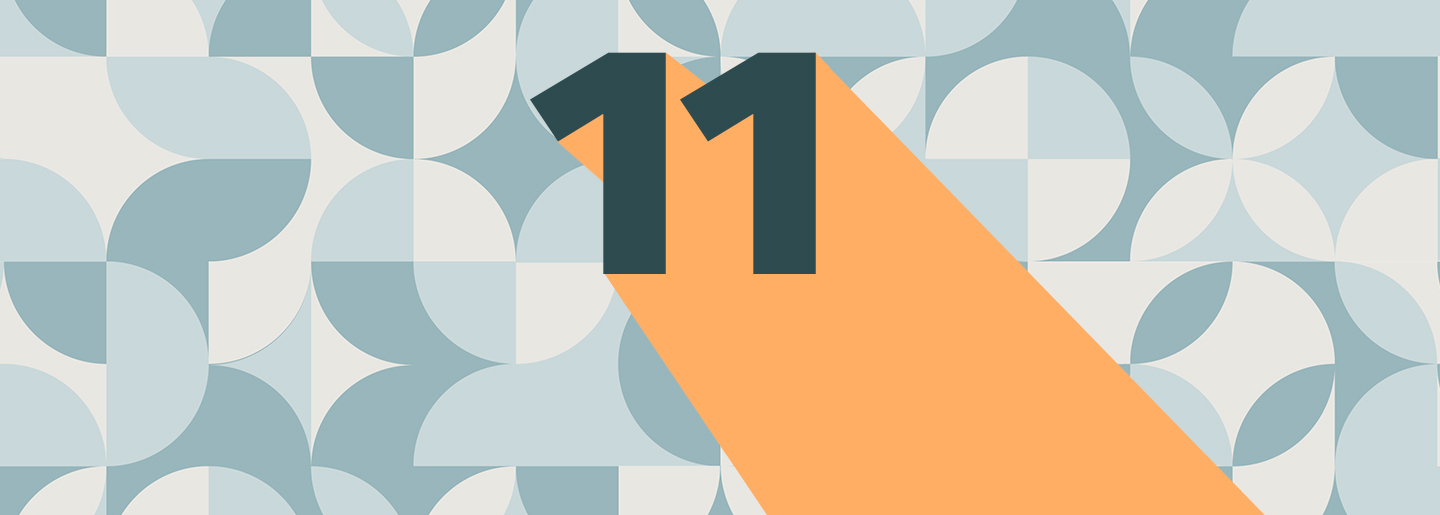
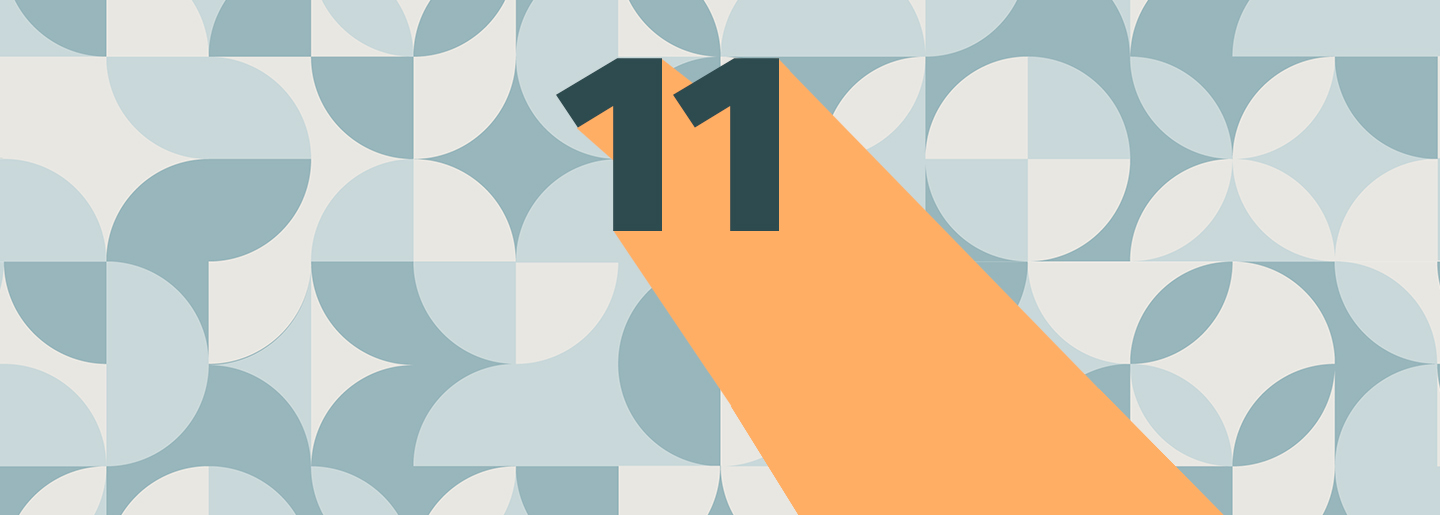
final

Changed region(s): [[0.3438, 0.0932, 0.875, 1.0]]

diff --git a/index.html b/index.html
@@ -8,17 +8,74 @@
     <link rel="preconnect" href="https://fonts.googleapis.com">
     <link rel="preconnect" href="https://fonts.gstatic.com" crossorigin>
     <link href="https://fonts.googleapis.com/css2?family=Quicksand:wght@300..700&display=swap" rel="stylesheet">
+    <link rel="stylesheet" href="https://unpkg.com/aos@next/dist/aos.css" />
 
 </head>
 <body>
     <header class="hero">
         <div class="container">
-            <p class="hero__text">Lorem ipsum dolor sit amet, consectetur adipiscing elit, sed do eiusmod tempor incididunt ut labore et dolore magna aliqua.</p>
+            <p class="hero__text">A maior festa de aniversário do Brasil acontecerá em <span id="contador"></span>.</p>
+
+        <div class="infos-bar">
+            <ul class="infos-bar__infos">
+                <li class="infos-bar__infos__item"><b>Lorem ipsum</b>Lorem ipsum</li>
+            </ul>
+                        <ul class="infos-bar__infos">
+                <li class="infos-bar__infos__item"><b>Lorem ipsum</b>Lorem ipsum</li>
+            </ul>
+                        <ul class="infos-bar__infos">
+                <li class="infos-bar__infos__item"><b>Lorem ipsum</b>Lorem ipsum</li>
+            </ul>
+            <a href="#" class="button button--primary"><b>Lorem ipsum</b></a>
+            
+        </div>
         </div>
     </header>
 
+    <section class="event">
+        <div class="container" data-aos="fade-left">
+            <div class="event__detail">
+            <h2 class="event__detail__title">Lorem ipsum</h2>
+            <p class="event__detail__description">"Lorem ipsum dolor sit amet, consectetur adipiscing elit, sed do eiusmod tempor incididunt ut labore et dolore magna aliqua. Ut enim ad minim veniam, quis nostrud exercitation ullamco laboris nisi ut aliquip ex ea commodo consequat. Duis aute irure dolor in reprehenderit in voluptate velit esse cillum dolore eu fugiat nulla pariatur. Excepteur sint occaecat cupidatat non proident, sunt in culpa qui officia deserunt mollit anim id est laborum."</p>
+            </div>
+            <img class= "event__image" src="./src/images/image2.jpg" alt="Imagem 1">
+        </div>
+            
+        
+        <section class="event">
+        <div class="container" data-aos="fade-left">
+            <img class= "event__imageleft" src="./src/images/image3.jpg" alt="Imagem 2">
+            <div class="event__detail">
+            <h2 class="event__detail__title">Lorem ipsum</h2>
+            <p class="event__detail__description">"Lorem ipsum dolor sit amet, consectetur adipiscing elit, sed do eiusmod tempor incididunt ut labore et dolore magna aliqua. Ut enim ad minim veniam, quis nostrud exercitation ullamco laboris nisi ut aliquip ex ea commodo consequat. Duis aute irure dolor in reprehenderit in voluptate velit esse cillum dolore eu fugiat nulla pariatur. Excepteur sint occaecat cupidatat non proident, sunt in culpa qui officia deserunt mollit anim id est laborum."</p>
+            </div>
+        </div>
+    </div>  
+
+        <section class="event">
+        <div class="container" data-aos="fade-right">
+            <div class="event__detail">
+            <h2 class="event__detail__title">Lorem ipsum</h2>
+            <p class="event__detail__description">"Lorem ipsum dolor sit amet, consectetur adipiscing elit, sed do eiusmod tempor incididunt ut labore et dolore magna aliqua. Ut enim ad minim veniam, quis nostrud exercitation ullamco laboris nisi ut aliquip ex ea commodo consequat. Duis aute irure dolor in reprehenderit in voluptate velit esse cillum dolore eu fugiat nulla pariatur. Excepteur sint occaecat cupidatat non proident, sunt in culpa qui officia deserunt mollit anim id est laborum."</p>
+            </div>
+            <img class= "event__image" src="./src/images/image4.jpg" alt="Imagem 3">
+        </div>
+        </section>
+        
+    <section class="event">
+            <div class="container" data-aos="fade-left">
+            <img class= "event__imageleft" src="./src/images/image1.jpg" alt="Imagem 2">
+            <div class="event__detail">
+            <h2 class="event__detail__title">Lorem ipsum</h2>
+            <p class="event__detail__description">"Lorem ipsum dolor sit amet, consectetur adipiscing elit, sed do eiusmod tempor incididunt ut labore et dolore magna aliqua. Ut enim ad minim veniam, quis nostrud exercitation ullamco laboris nisi ut aliquip ex ea commodo consequat. Duis aute irure dolor in reprehenderit in voluptate velit esse cillum dolore eu fugiat nulla pariatur. Excepteur sint occaecat cupidatat non proident, sunt in culpa qui officia deserunt mollit anim id est laborum."</p>
+            </div>
+        </div>
+    </section>
 
 
+    <script src="https://unpkg.com/aos@next/dist/aos.js"></script>
     <script src="./src/scripts/main.js"></script>
+    
+
 </body>
 </html>

diff --git a/src/styles/_hero.scss b/src/styles/_hero.scss
@@ -1,7 +1,10 @@
+@use 'components/variables';
+
 .hero {
     width: 100%;
-    height: 515px;
+    height: auto;
     padding-top: 300px;
+    padding-bottom: 30px;
     background-image: url(../images/hero.jpg);
     background-repeat: no-repeat;
     background-size: cover;
@@ -11,31 +14,32 @@
         position: relative;
     }
 
-&__text {
-    margin-top: 64px;
-    margin-bottom: 0px;
-    font-size: 30px;
-    line-height: 56px;
-    color: #FFFFFF;
+&__text {    
+    padding-top: 12px;
+    margin-bottom: 20px;
+    font-size: 25px;
+    color: variables.$textColor;
+    font-weight: bold;
     text-align: center;
 
         &::before  {
+        border-radius: 4px;
         position: absolute;
         top: 0;
         left: 0;
         width: 100%;
         height: 100%;
-        background-color: #FFFFFF;
+        background-color: variables.$gradientWhite;
         content: '';
         opacity: 0.2;
     }
 }
 
-        @media (max-width: 1024px) {
+        @media (max-width: 640px) {
             padding: 40px 0;
         &__text {
             font-size: 26px;
-            line-height: 48px;
+            line-height: 38px;
         }
     }
 

diff --git a/src/scripts/main.js b/src/scripts/main.js
@@ -1,0 +1,33 @@
+AOS.init();
+
+const dataDoEvento = new Date("Jan 11, 2026 23:59:59");
+const timeStampDoEvento = dataDoEvento.getTime();
+
+const contaAsHoras = setInterval(function() {
+    const agora = new Date();
+    const timeStampAtual = agora.getTime();
+
+    const distanciaAteOEvento = timeStampDoEvento - timeStampAtual;
+
+    const diaEmMs = 1000 * 60 * 60 * 24;
+    const horaEmMs = 1000 * 60 * 60;
+    const minutoEmMs = 1000 * 60;
+
+    const diasAteOEvento = Math.floor (distanciaAteOEvento / diaEmMs);
+    const horasAteOEvento = Math.floor((distanciaAteOEvento % diaEmMs) / horaEmMs);
+    const minutosAteOEvento = Math.floor((distanciaAteOEvento % horaEmMs) / minutoEmMs);
+    const segundosAteOEvento = Math.floor((distanciaAteOEvento % minutoEmMs) / 1000);          
+    
+
+
+document.getElementById('contador').innerHTML = `${diasAteOEvento} dias, ${horasAteOEvento} horas, ${minutosAteOEvento} minutos e ${segundosAteOEvento} segundos`;
+
+
+if (distanciaAteOEvento < 0) {
+    clearInterval(contaAsHoras);
+    document.getElementById("contador").innerHTML = "O evento já aconteceu!";
+}
+
+}, 1000);
+
+

diff --git a/src/styles/components/_event.scss b/src/styles/components/_event.scss
@@ -1,0 +1,54 @@
+@use '../components/variables';
+
+.event {
+    margin: 0 auto;
+    padding: 24px 0;
+    background-image: linear-gradient(variables.$gradientWhite, variables.$gradientBlue);
+
+    .container {
+        display: flex;
+        margin-top: 8px;
+    }
+
+    &__image {
+        max-width: 160px;
+        margin-left: 24px;    
+        margin-bottom: 24px;         
+    }
+
+        &__imageleft {
+        max-width: 160px;
+        margin-right: 24px;     
+        margin-bottom: 24px;        
+    }
+
+
+    &__detail {
+
+        &__title {
+            font-size: 18px;
+            color: #3a4c50;
+            font-weight: bold;
+            
+        }
+
+        &__description {
+            font-size: 14px;
+            color: #3a4c50;
+            line-height: 24px;
+            font-weight: normal;
+            margin-bottom: 24px;
+        }
+    }
+
+    @media (max-width: 640px) {
+        .container {
+        display: block;
+        }
+        
+        &__image, &__imageleft {
+            max-width: 100%;
+            margin: 0 0 16px 0;
+        }
+    }
+}

diff --git a/src/styles/components/_infos_bar.scss b/src/styles/components/_infos_bar.scss
@@ -1,0 +1,37 @@
+@use '../components/variables';
+
+.infos-bar {
+    padding: 16px 16px;
+        background-color: variables.$gradientWhite;
+        display: flex;
+        justify-content: space-between;
+        border-radius: 4px;
+
+    &__infos {
+        padding: 10px 10px;
+        gap: 40px;
+
+        &__item {
+            font-size: 14px;
+            color: variables.$textColor2;
+
+            b {
+                font-size: 14px;
+                display: block;
+                color: variables.$textColor2;
+            }
+        }
+    }
+        @media (max-width: 640px) {
+            display: block;
+
+            &__infos {
+                display: block;
+                text-align: center;
+
+                &__item {
+                    margin-bottom: 24px;
+                }
+            }
+        }
+}

diff --git a/src/styles/components/_buttons.scss b/src/styles/components/_buttons.scss
@@ -1,0 +1,34 @@
+@use 'variables';
+
+.button {
+    margin-top: 5px;
+    font-size: 18px;
+    text-decoration: none;
+    white-space: nowrap;
+    height: 80%;
+
+    &--primary {
+        background-color: variables.$buttonColor;
+        color: variables.$textColor2;
+        border: none;
+        border-radius: 4px;
+        cursor: pointer;
+        padding: 12px;
+        vertical-align: middle;
+
+        @media (max-width: 640px) {
+            display: block;
+            width: 100%;
+            text-align: center;
+        }
+                @media (max-width: 960px) {
+            display: block;
+            width: 100%;
+            text-align: center;
+        }
+
+        &:hover {
+            background-color: #2e3b3e;
+        }
+    }
+}

diff --git a/src/styles/styles.scss b/src/styles/styles.scss
@@ -1,10 +1,15 @@
 @use 'hero';
+@use 'components/infos_bar';
+@use 'components/buttons';
+@use 'components/event';
+@use 'components/variables';
 
 * {
     margin: 0;
     padding: 0;
     box-sizing: border-box;
     font-family: Quicksand, sans-serif;
+    list-style: none;
 }
 
 .container {

diff --git a/src/styles/components/_variables.scss b/src/styles/components/_variables.scss
@@ -1,0 +1,6 @@
+$blue1: #a0b5ba;
+$textColor: #3a4c50;
+$textColor2: #000000;
+$gradientBlue: #a0b5ba;
+$gradientWhite: #ffffff;
+$buttonColor: #ebac68;
